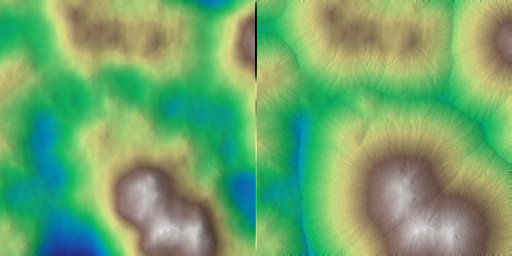
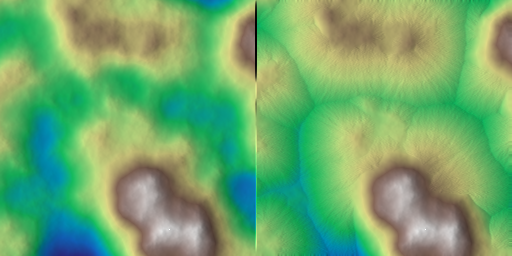
Add min elevation limit

Changed region(s): [[0.5, 0.0, 1.0, 1.0]]

diff --git a/src/erosion/thermal_downslope.cpp b/src/erosion/thermal_downslope.cpp
@@ -16,6 +16,7 @@ void thermal_downslope(Array &z,
                        float  talus,
                        uint   seed,
                        float  noise_ratio,
+                       float  zmin,
                        float  zmax)
 {
   std::mt19937                          gen(seed);
@@ -42,7 +43,7 @@ void thermal_downslope(Array &z,
     for (int j = 2; j < z.shape[1] - 2; j++)
     {
       float rd = dis(gen);
-      if ((z(i, j) < zmax * rd) and (tz(i, j) <= talus))
+      if ((z(i, j) > zmin) and (z(i, j) < zmax * rd) and (tz(i, j) <= talus))
       {
         queue_i.push_back(i);
         queue_j.push_back(j);

diff --git a/include/highmap/erosion.hpp b/include/highmap/erosion.hpp
@@ -407,6 +407,7 @@ void thermal_auto_bedrock(Array &z,
  * @param talus Talus limit.
  * @param seed Random seed number.
  * @param noise_ratio Noise amplitude ratio (for talus and elevation limit).
+ * @param zmin Elevation lower limit.
  * @param zmax Elevation upper limit.
  *
  * **Example**
@@ -419,6 +420,7 @@ void thermal_downslope(Array &z,
                        float  talus,
                        uint   seed,
                        float  noise_ratio = 0.5f,
+                       float  zmin = -1.f,
                        float  zmax = 0.5f);
 
 /**

diff --git a/examples/ex_thermal_downslope/ex_thermal_downslope.cpp b/examples/ex_thermal_downslope/ex_thermal_downslope.cpp
@@ -11,13 +11,15 @@ int main(void)
   int                      seed = 1;
 
   hmap::Array z = hmap::fbm_perlin(shape, res, seed);
-  auto        z0 = z;
+  hmap ::remap(z);
+  auto z0 = z;
 
   float talus = 2.f / shape[0];
   float noise_ratio = 0.5f;
+  float zmin = -5.f; // == no limit
   float zmax = 0.5f;
 
-  hmap::thermal_downslope(z, talus, seed, noise_ratio, zmax);
+  hmap::thermal_downslope(z, talus, seed, noise_ratio, zmin, zmax);
 
   hmap::export_banner_png("ex_thermal_downslope.png",
                           {z0, z},

diff --git a/tests/sandbox/main.cpp b/tests/sandbox/main.cpp
@@ -48,9 +48,9 @@ int main(void)
   z += 0.1f * zr * c;
 
   hmap::remap(z);
-  timer.start("thermal_downslope");
-  hmap::thermal_downslope(z, 3.f / shape[0], seed, 0.5f, 0.5f);
-  timer.stop("thermal_downslope");
+  // timer.start("thermal_downslope");
+  // hmap::thermal_downslope(z, 3.f / shape[0], seed, 0.5f, 0.5f);
+  // timer.stop("thermal_downslope");
 
   // hmap::smooth_fill(z, 96);
   // hmap::smooth_fill_smear_peaks(z, 2);
